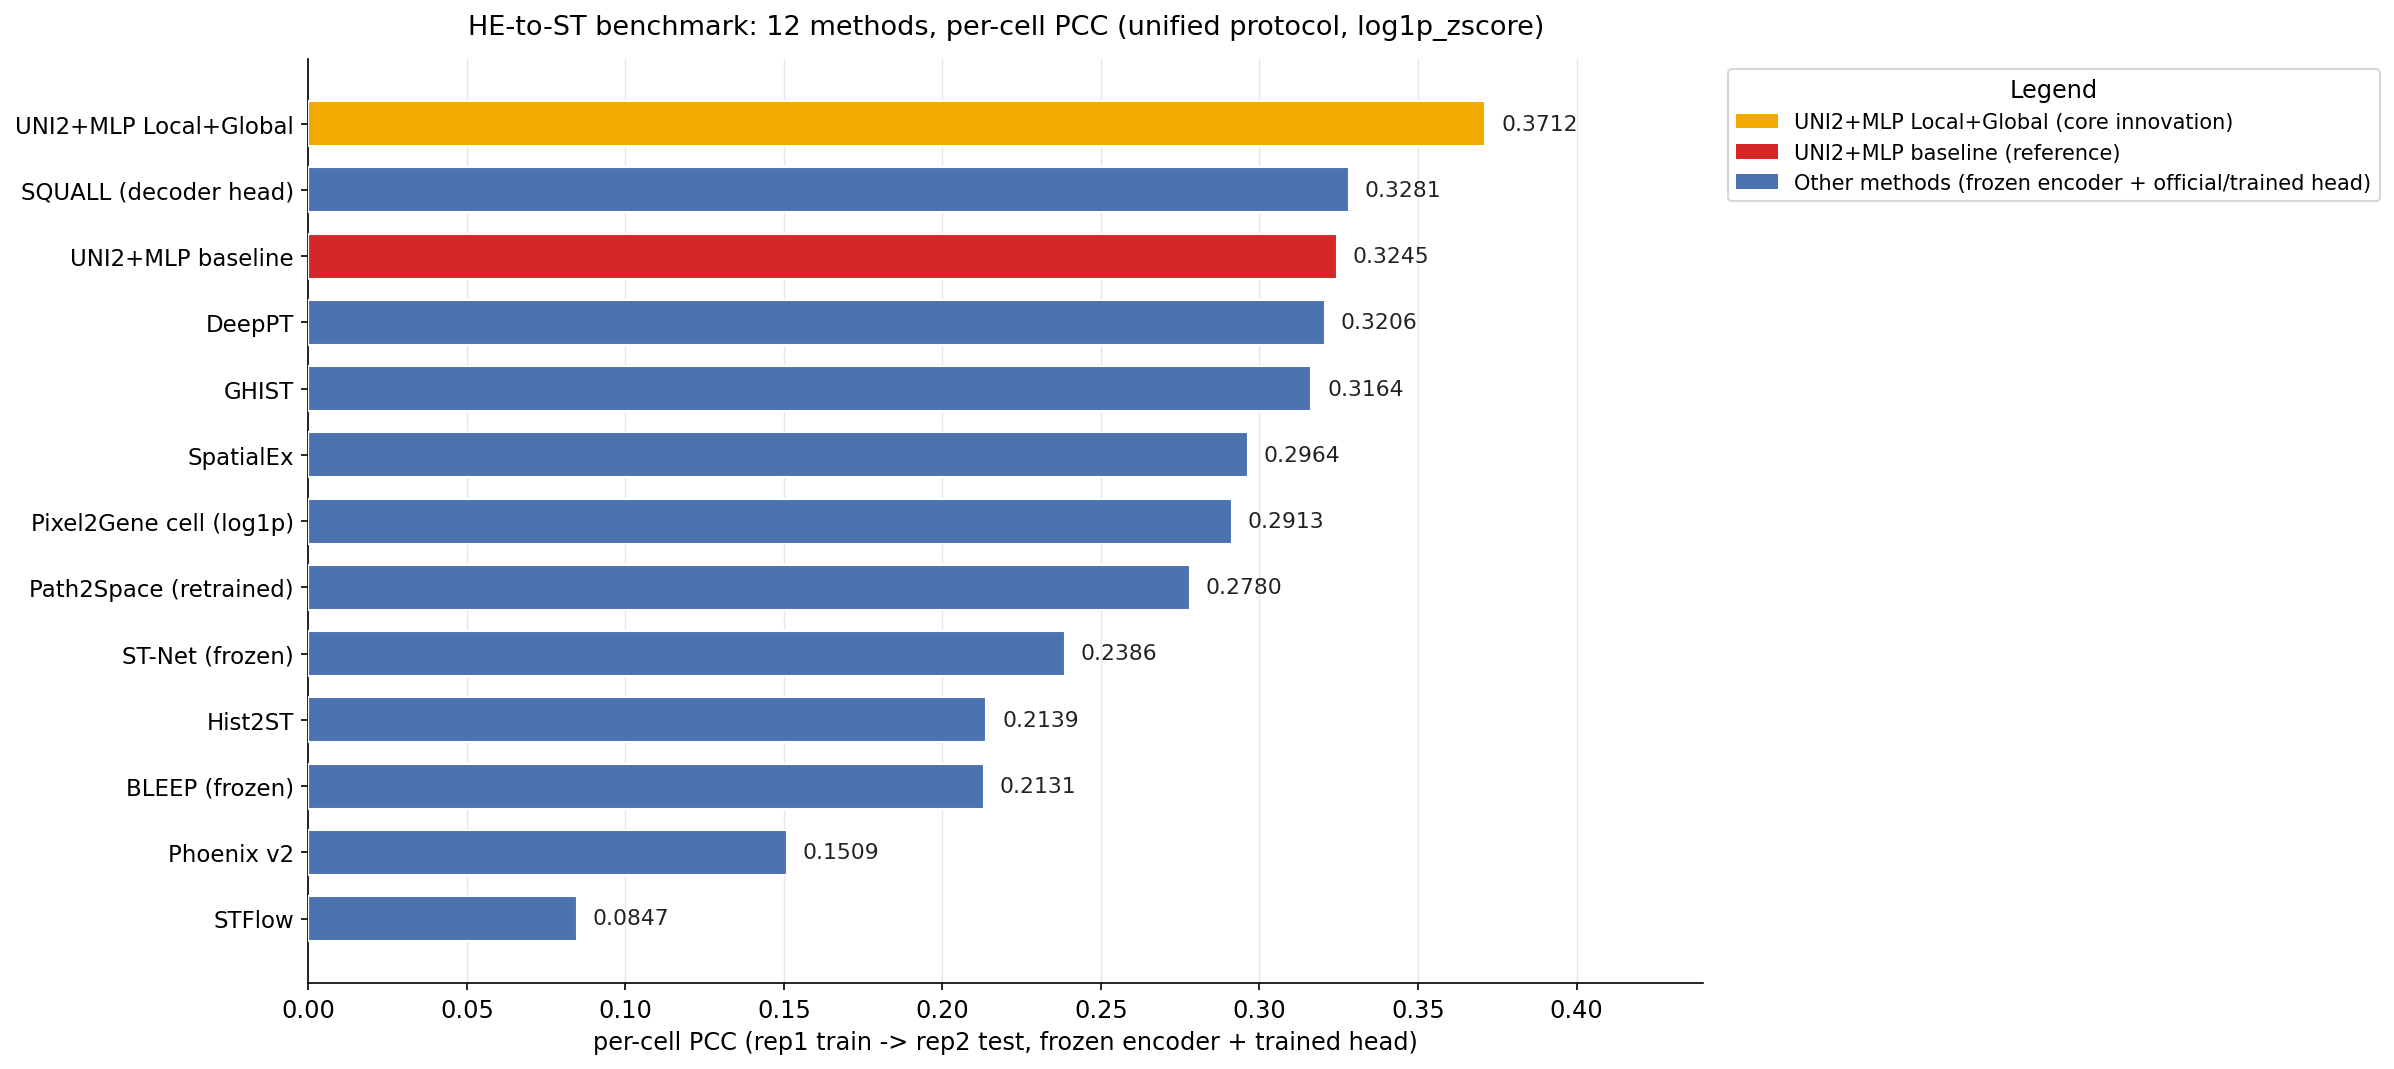
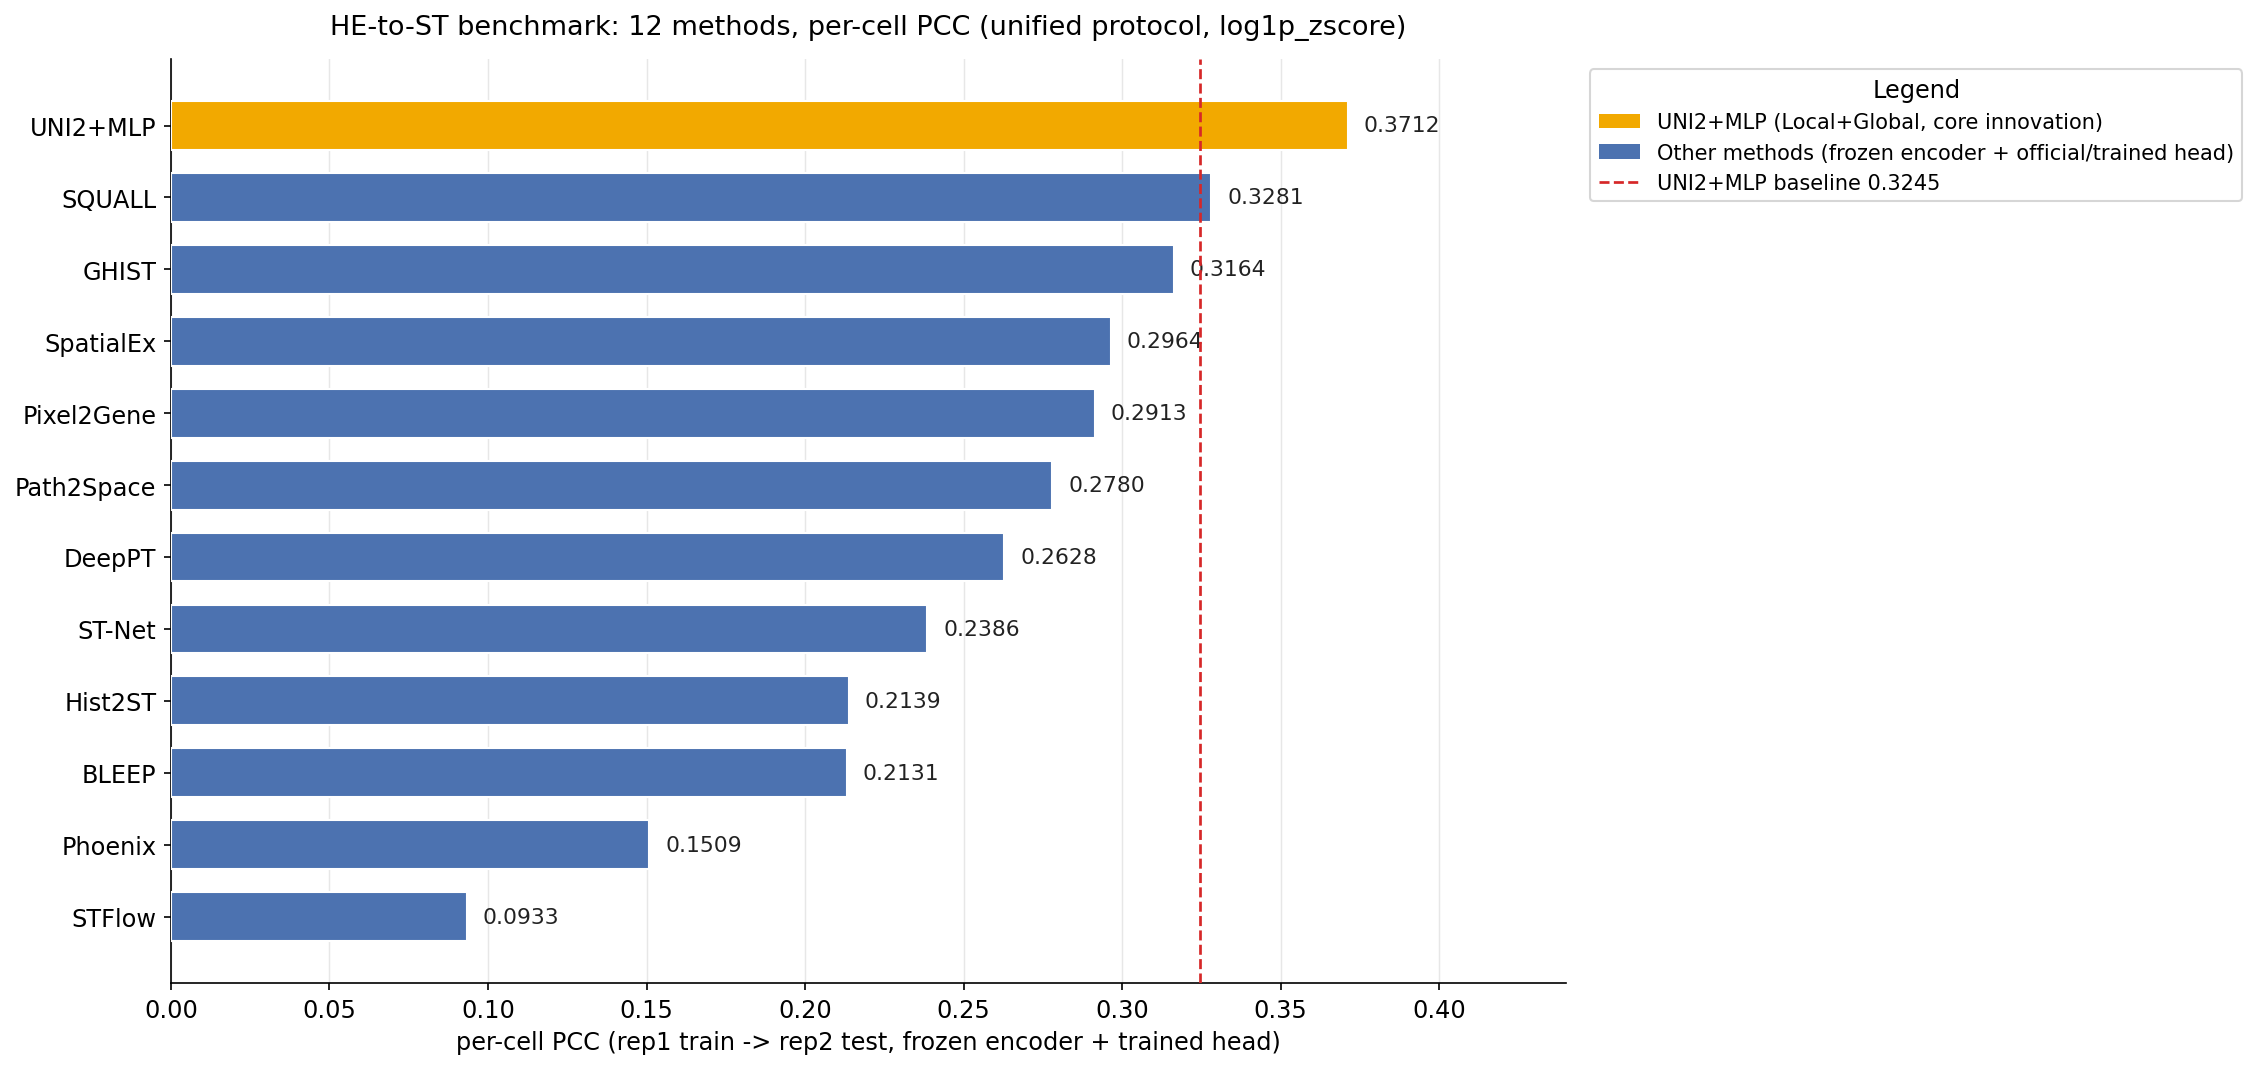
主表与柱状图更新：DeepPT→ResNet50 忠实版 0.2628、STFlow→log1p+zinb 官方默认 0.0933；test_stflow.py 修复 prior/n_sample_steps 未从 config 传入
- 主表按 PCC 重排：DeepPT（ResNet50 忠实版）0.2628 入主表（UNI2 特征版 0.3206 作参考），
  STFlow 0.0933（log1p+zinb 官方默认；gaussian 0.0847 作参考），全量指标来自远程实测
  （SPCC 0.1572 / top10 0.242 / top50 0.289 / top100 0.405 / AUROC 0.614）
- 柱状图重绘：12 方法纯名称（去 frozen/cell/log1p/decoder 标注），UNI2+MLP 基线 0.3245 改红色虚线参考
- test_stflow.py：构建 STFlow 时从 best.pt config 传入 prior/n_sample_steps（此前默认 gaussian 20 步导致评估失真）

diff --git a/scripts/test_stflow.py b/scripts/test_stflow.py
@@ -35,10 +35,13 @@ def main() -> None:
     gene_norm = config.get("gene_norm", "log1p_zscore")
     stats = config.get("stats")
 
-    model = STFlow(num_genes=num_genes)
+    model = STFlow(num_genes=num_genes,
+                   prior=config.get("prior", "gaussian"),
+                   n_sample_steps=config.get("n_sample_steps", 20))
     model.load_state_dict(ckpt["model"])
     model.to(args.device)
-    print(f"[STFlow] 加载 best.pt: num_genes={num_genes} gene_norm={gene_norm}",
+    print(f"[STFlow] 加载 best.pt: num_genes={num_genes} gene_norm={gene_norm} "
+          f"prior={model.prior} n_sample_steps={model.n_sample_steps}",
           flush=True)
 
     results = evaluate_slide(model, args.test_dir, gene_norm, stats,

diff --git a/README.md b/README.md
@@ -142,19 +142,19 @@ Local+Global 双尺度在相邻切片基准上 **0.3245 → 0.3712（+0.047）**
 | **UNI2+MLP Local+Global**（改进） | UNI2 冻结 | **0.3712** | 0.3071 | 0.539 | 0.588 | 0.630 | 0.759 | l1=112+l2=56，核心创新（见上节） |
 | **SQUALL**（官方解码器头） | 冻结 555M | 0.3281 | 0.2873 | 0.507 | 0.572 | 0.623 | 0.742 | token(196×1024)→训练 TransformerDecoder；头更强可利用 token 结构 |
 | **UNI2+MLP**（基线） | UNI2 冻结 | 0.3245 | 0.2852 | 0.510 | 0.575 | 0.626 | 0.739 | 超 UNI1 基线 0.312 |
-| **DeepPT** | UNI2 冻结 | 0.3206 | 0.2834 | 0.507 | 0.577 | 0.629 | 0.738 | 官方 MLP_regression 头（UNI2 特征版；ResNet50 忠实版 0.2628 见下） |
 | **GHIST** | UNet 从头 | 0.3164 | 0.2952 | 0.500 | 0.525 | 0.516 | 0.700 | 官方 Framework（核 mask + 图），从零训练 |
 | **SpatialEx** | UNI2 冻结 | 0.2964 | 0.2686 | 0.493 | 0.561 | 0.616 | 0.727 | 超官方 SpatialEx(UNI1) 0.256 |
+| **Pixel2Gene**（cell 级） | HIPT 冻结 | 0.2913 | 0.2687 | 0.497 | 0.551 | 0.551 | 0.720 | 官方 ForwardSum 头 **log1p 空间**（zscore 0.2699）；统一 MLP 版 0.3085 作参考 |
 | **SQUALL**（统一 MLP） | 冻结 555M | 0.2812 | 0.2581 | 0.481 | 0.560 | 0.622 | 0.715 | 0-1 输入修复后复核值 |
 | **Path2Space**（重训训练头） | CTransPath 冻结 | 0.2780 | 0.2555 | 0.476 | 0.561 | 0.625 | 0.714 | 训练官方 MLP 头适配 per-cell（见下） |
-| **Pixel2Gene**（cell 级） | HIPT 冻结 | 0.2913 | 0.2687 | 0.497 | 0.551 | 0.551 | 0.720 | 官方 ForwardSum 头 **log1p 空间**（zscore 0.2699）；统一 MLP 版 0.3085 作参考 |
+| **DeepPT**（ResNet50 忠实版） | ResNet50-ImageNet | 0.2628 | 0.2478 | 0.470 | 0.556 | 0.624 | 0.707 | 官方特征 + 官方头（UNI2 特征版 0.3206 作参考，见 DeepPT 专节） |
 | **ST-Net**（冻结 DenseNet） | DenseNet 冻结 | 0.2386 | 0.2318 | 0.457 | 0.545 | 0.620 | 0.694 | 微调版 0.3619 仅作参考 |
 | **Hist2ST**（官方配置） | 从头 | 0.2139 | 0.2046 | 0.431 | 0.531 | 0.611 | 0.670 | 独立协议（见下），统一协议下不收敛 |
 | **BLEEP**（冻结 resnet50） | resnet50 冻结 | 0.2131 | 0.2056 | 0.440 | 0.525 | 0.601 | 0.666 | 微调版 0.3235 仅作参考 |
 | Pixel2Gene（spot 级） | HIPT 冻结 | 0.1687 | 0.1729 | 0.379 | 0.510 | 0.622 | 0.644 | spot 内异质性封顶 |
 | Phoenix v2 | 流模型 | 0.1509 | 0.1304 | 0.409 | 0.474 | 0.539 | 0.592 | 官方 FlowTransformerModel |
 | Phoenix v1 | 流模型 | 0.1001 | 0.0982 | 0.318 | 0.432 | 0.522 | 0.573 | 313 基因适配有限 |
-| STFlow | 流模型 | 0.0847 | 0.0697 | 0.302 | 0.422 | 0.533 | 0.552 | whole-slide flow matching |
+| STFlow | 流模型 | 0.0933 | 0.1572 | 0.242 | 0.289 | 0.405 | 0.614 | log1p + zinb（官方默认）；gaussian 0.0847 作参考 |
 | Path2Space（冻结集成） | CTransPath 冻结 | 0.0411 | 0.0354 | 0.148 | 0.323 | 0.432 | 0.526 | 冻结 154-MLP 集成不迁移（见下） |
 
 > 统一协议：50ep + 早停 + log1p_zscore（统计量仅在训练集拟合）。Hist2ST 为**独立协议**
@@ -194,6 +194,9 @@ BatchNorm+Dropout、首层加宽 512，官方头无归一化且立即瓶颈到 2
 - **同切片验证**（rep2 分裂，80k/31k）：val_PCC **0.2725**，与跨切片 0.2780 一致。
 
 ### DeepPT ResNet50 忠实版（对比论文差异归因）
+
+> **主表取值**：ResNet50 忠实版 **0.2628**（官方特征 + 官方头，编码器冻结）；UNI2 特征版
+> 0.3206 仅作"表示"对比参考（不参与主表排序）。
 
 官方 DeepPT（Hoang 2024, Nature Cancer）用 **ResNet50-ImageNet → AE(2048→512) → 官方 MLP_regression(512→512→G)** 预测整片 bulk 表达。为对照
 SpatialEx 论文（其报告 DeepPT 在相同乳腺癌 Xenium 数据上 **~0.205**，低于 SpatialEx），
@@ -268,14 +271,14 @@ STFlow（Huang et al. 2025）全基因 PCC 0.0847 偏低。按原论文协议做
 |---|---|---|---|---|---|---|
 | **UNI2+MLP**（基线） | 特征回归 | UNI2 冻结（1536-d CLS） | 统一 MLPHead 1536→512→256→313 | 本仓库基线 | **0.3245** | 合理，作为对比基准 |
 | **UNI2+MLP Local+Global**（改进） | 特征回归 | UNI2 冻结 | concat[Global CLS, Local 中心 token]→统一 MLPHead 3072→512→256→313 | 本仓库创新（token 复用单次 forward） | **0.3712** | 核心创新（见上节），+0.047 |
-| **DeepPT** | 特征回归 | UNI2 冻结 | AE(1536→512)+官方 `MLP_regression`（Linear→Dropout→Linear） | ✅ 官方头原样；AE 为单细胞适配 | 0.3206 | 合理 |
+| **DeepPT** | 特征回归 | ResNet50-ImageNet | AE(2048→512)+官方 `MLP_regression`（Linear→Dropout→Linear） | ✅ 官方特征 + 官方头忠实版 | 0.2628 | 合理（官方忠实版；UNI2 特征版 0.3206 作参考，见专节） |
 | **Pixel2Gene** | 特征回归 | HIPT 冻结 | 官方 `ForwardSumModel`（576→256×4 FFN+ELU 输出头） | ✅ 官方头；cell 级为方案 B | 0.2913 / 0.169 | cell 级合理（log1p 空间），spot 级受异质性封顶 |
 | **SpatialEx** | 超图 GNN | UNI2 冻结 | MLP→HGNN→Linear，超图 kNN k=7 | ✅ 官方架构；cell-level MSE 为可选适配 | 0.2964 | 合理，超官方(UNI1)0.256 |
 | **ST-Net** | CNN 回归 | DenseNet **冻结**（`--no_finetune`） | Linear 回归头 | ✅ 官方 DenseNet 架构；冻结为项目原则 | 0.2386 | 合理（冻结）；微调 0.3619 仅参考 |
 | **BLEEP** | 对比学习 | resnet50 **冻结** | 对比投影头 | ✅ 官方架构；冻结为项目原则 | 0.2131 | 合理（冻结）；微调 0.3235 仅参考 |
 | **SQUALL** | Transformer 多模态 | 冻结 555M 特征 | 官方 `SQUALLDecoderHead`（TransformerDecoder→313，训练） | ✅ 官方解码器头训练版 | 0.3281 | 解码器头可训练时最强（vs 统一 MLP 0.2812）；0-1 输入修复后 |
 | **Phoenix** | 流匹配（生成） | 流模型 | 官方 `FlowTransformerModel` | ✅ v2 官方架构 | 0.1509 / 0.100 | 生成式采样不适配 per-cell 回归 |
-| **STFlow** | 流匹配（生成） | UNI2 冻结 | `SpatialTransformer` 去噪器（ROI 级） | ✅ 官方架构纯 torch 移植 | 0.0847 | 全基因低分因基因集+粒度：Top50 HVG 官方配置校验 **0.3626**，论文 0.3-0.4 |
+| **STFlow** | 流匹配（生成） | UNI2 冻结 | `SpatialTransformer` 去噪器（ROI 级） | ✅ 官方架构纯 torch 移植 | 0.0933 | **log1p + zinb（官方默认）**（gaussian 0.0847 作参考）；Top50 HVG 官方配置 **0.3626**，论文 0.3-0.4 |
 | **Path2Space** | MLP 集成 | CTransPath 冻结 | 官方 `MLP_regression_relu_two`（**训练**头） | ✅ 重训方案（冻结集成 ~0.04 不迁移） | **0.2780** | 重训头适配 per-cell，跨切片有效 |
 | **GHIST** | UNet+图 | UNet 从头 | Framework 图模型 | ✅ 官方 Framework 移植 | **0.3164** | 数据管线 + tiling 完成；从零训练追平 UNI2 特征系 |
 | **Hist2ST** | 图 Transformer | 从头 | Convmixer+Transformer+GNN | ✅ 官方架构 | null→**0.2139**（官方配置） | 协议是根因，官方配置有真实学习 |
@@ -287,7 +290,7 @@ STFlow（Huang et al. 2025）全基因 PCC 0.0847 偏低。按原论文协议做
 2. **编码器微调类（ST-Net / BLEEP）**：官方架构本身微调编码器；按项目"冻结原则"改用 `--no_finetune`
    （0.239 / 0.213）。微调版（0.362 / 0.324）作为"微调增益"的参考证据，不计入合规表。
 3. **生成式方法（Phoenix / STFlow）**：忠实复现官方流匹配架构，但**生成式采样不适合 per-cell 回归**，
-   指标 0.08-0.15 属方法性质使然（与基线同特征对比：UNI2+MLP 0.32 vs STFlow 0.08）。
+   指标 0.09-0.15 属方法性质使然（与基线同特征对比：UNI2+MLP 0.32 vs STFlow 0.09）。
 4. **从头学习方法（Hist2ST / GHIST）**：无预训练特征，统一协议下难收敛（Hist2ST null），
    官方配置重训才有学习（**0.2139**）；GHIST 因核分割 + 整片 tiling 数据管线（官方 256×256
    patch + overlap 30）已跑通，从零训练追平 UNI2 特征系（**0.3164**）。
@@ -350,8 +353,8 @@ STFlow（Huang et al. 2025）全基因 PCC 0.0847 偏低。按原论文协议做
 4. ~~官方预测头补齐~~ ✅ 完成（用户原则：官方有头不换统一 MLP）：
    - ~~Pixel2Gene cell 级改用官方 ForwardSumModel~~ ✅（log1p 空间 0.2913）；
    - ~~SQUALL 官方 TransformerDecoder 头训练~~ ✅（0.3281）。
-5. **Pixel2Gene cell 呈现决策**：官方 ForwardSum 头 log1p 版（0.2913）vs 统一 MLP 版
-   （0.3085）如何入表（当前主表用 0.2913，MLP 0.3085 作参考）。
+5. ~~Pixel2Gene cell 呈现决策~~ ✅ 已定：主表用官方 ForwardSum 头 **log1p 版 0.2913**，
+   统一 MLP 版 0.3085 作参考。
 6. **三层次泛化评测**：同切片左右半 → 相邻切片（MPP 统一）→ 同癌种多切片。
 7. **多组学验证**：肾癌切片（基因+蛋白双组学）。
 8. **跨癌种验证**：结直肠/肺癌/卵巢训练 → 乳腺癌测试。
